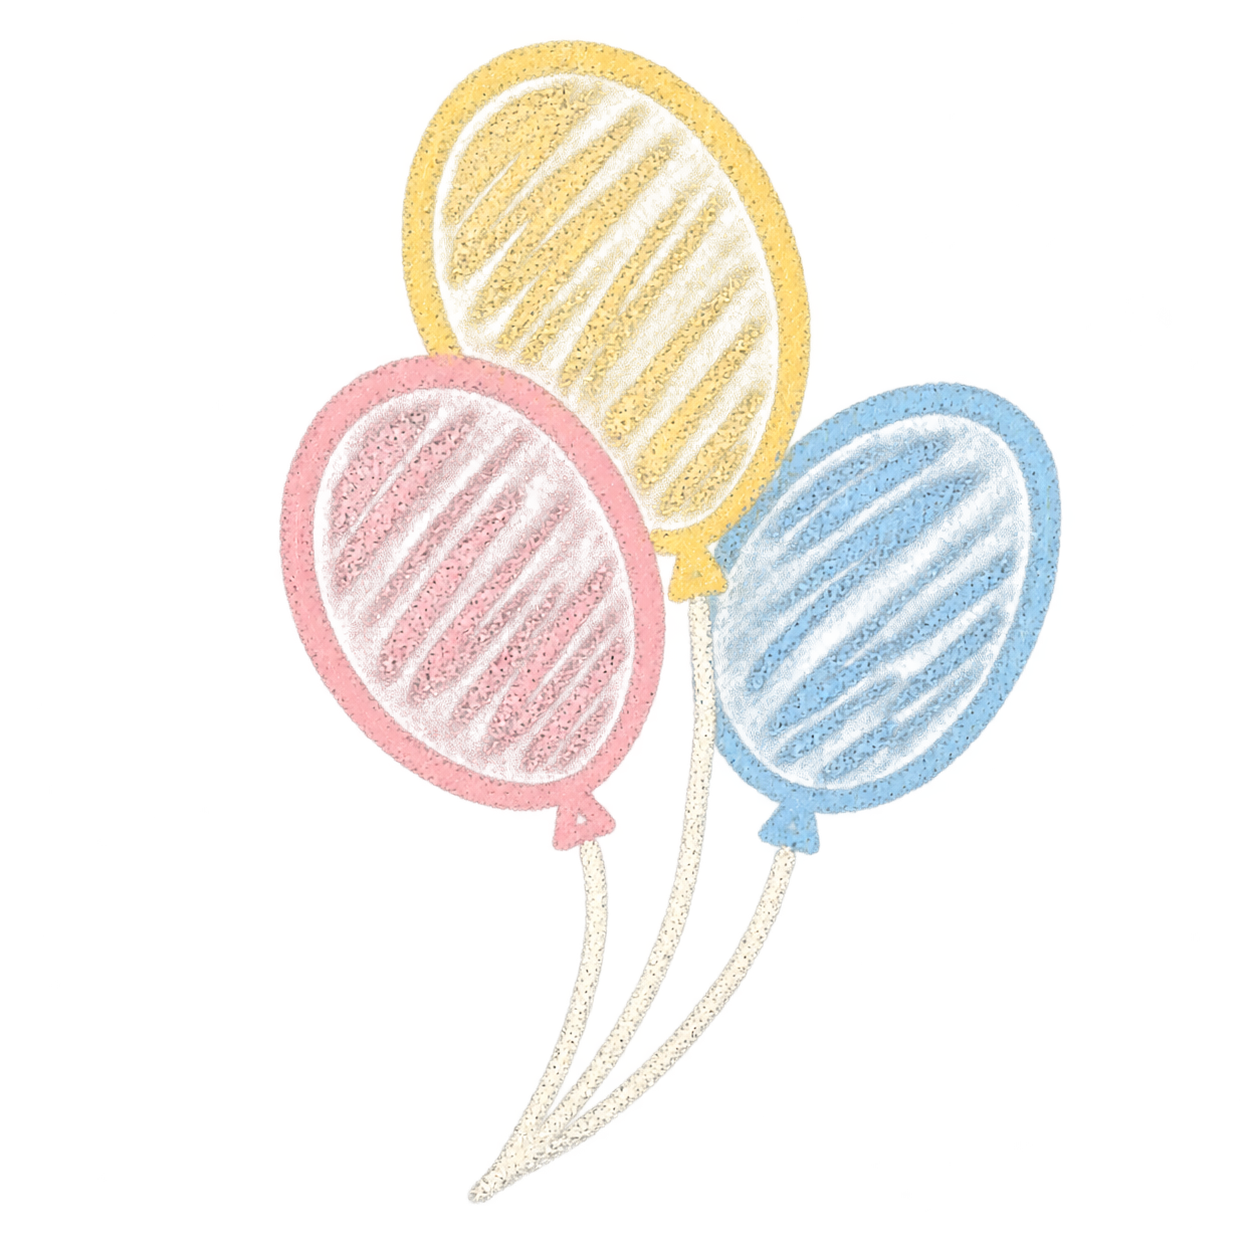
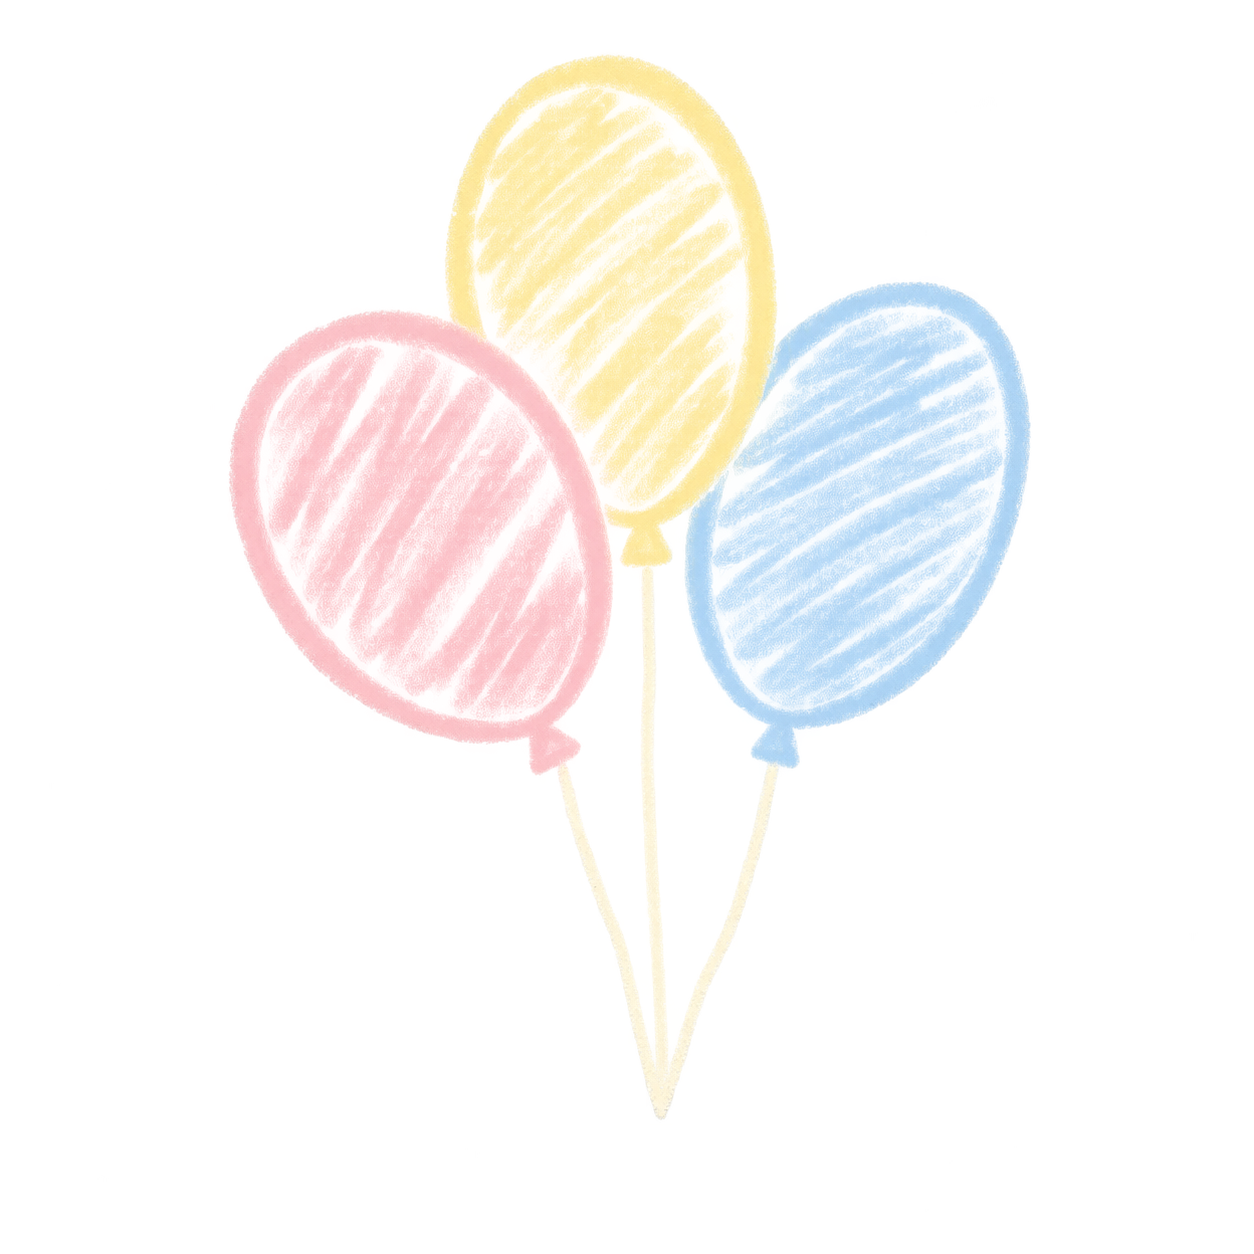
art: center balloon strings and add rubbed chalk cat patches

Changed region(s): [[0.1866, 0.0311, 0.8708, 0.9641]]

diff --git a/public/classroom/chalk/handdrawn/preview.html b/public/classroom/chalk/handdrawn/preview.html
@@ -38,8 +38,8 @@
     <section class="grid" aria-label="四款粉笔图案">
       <article><div class="board"><img class="large" src="heart.webp" alt="柔粉色粉笔爱心" width="512" height="512"><img class="small" src="heart.webp" alt="" width="52" height="52"></div><h2>爱心</h2><div class="files"><a href="heart.webp" download>网页图片</a><a href="heart.png" download>PNG 原图</a></div></article>
       <article><div class="board"><img class="large" src="stars.webp" alt="淡黄、暖白与浅蓝粉笔星星" width="512" height="512"><img class="small" src="stars.webp" alt="" width="52" height="52"></div><h2>星星</h2><div class="files"><a href="stars.webp" download>网页图片</a><a href="stars.png" download>PNG 原图</a></div></article>
-      <article><div class="board"><img class="large" src="balloons.webp" alt="柔粉、淡黄与浅蓝的三个粉笔气球" width="512" height="512"><img class="small" src="balloons.webp" alt="" width="52" height="52"></div><h2>三个气球</h2><div class="files"><a href="balloons.webp" download>网页图片</a><a href="balloons.png" download>PNG 原图</a></div></article>
-      <article><div class="board"><img class="large" src="cat.webp" alt="暖白粉笔画的可爱猫咪" width="512" height="512"><img class="small" src="cat.webp" alt="" width="52" height="52"></div><h2>猫咪</h2><div class="files"><a href="cat.webp" download>网页图片</a><a href="cat.png" download>PNG 原图</a></div></article>
+      <article><div class="board"><img class="large" src="balloons.webp?v=6" alt="柔粉、淡黄与浅蓝的三个粉笔气球，绳线在中下方汇合" width="512" height="512"><img class="small" src="balloons.webp?v=6" alt="" width="52" height="52"></div><h2>三个气球</h2><div class="files"><a href="balloons.webp" download>网页图片</a><a href="balloons.png" download>PNG 原图</a></div></article>
+      <article><div class="board"><img class="large" src="cat.webp?v=6" alt="暖白粉笔猫咪，带淡黄擦涂色块和柔粉耳内" width="512" height="512"><img class="small" src="cat.webp?v=6" alt="" width="52" height="52"></div><h2>猫咪</h2><div class="files"><a href="cat.webp" download>网页图片</a><a href="cat.png" download>PNG 原图</a></div></article>
     </section>
     <p class="note">下方小样固定为 52 px。背景颜色来自页面，图片里的空白与粉笔颗粒间隙均为透明区域。</p>
   </main>

diff --git a/public/classroom/chalk/handdrawn/PROMPTS.md b/public/classroom/chalk/handdrawn/PROMPTS.md
@@ -38,7 +38,7 @@ Subject: ONE very cute simple sitting kitten, front-facing, with a slightly tilt
 
 ## 第二版：气球绳线与猫咪手绘感
 
-2026-09-10，根据用户对气球绳线缺少粉笔感、猫咪过于精致的反馈更新。以下两段是第二版气球和猫咪采用的提示词。第二版气球的粉笔质感获用户认可，后续追加了自然倾角和遮挡关系要求；两款当前采用第五版，见文末记录。爱心和星星沿用第一版。使用内置 imagegen 分别重新生成透明素材，保留原调用地址；前两次图像编辑返回了带棋盘格的非透明文件，未采用。
+2026-09-10，根据用户对气球绳线缺少粉笔感、猫咪过于精致的反馈更新。以下两段是第二版气球和猫咪采用的提示词。第二版气球的粉笔质感获用户认可，后续追加了自然倾角和遮挡关系要求；两款当前采用第六版，见文末记录。爱心和星星沿用第一版。使用内置 imagegen 分别重新生成透明素材，保留原调用地址；前两次图像编辑返回了带棋盘格的非透明文件，未采用。
 
 ### balloons：第二版记录
 
@@ -101,7 +101,7 @@ Character: affectionate, naive, slightly lopsided and easily drawn by hand, abou
 
 这两款使用内置 imagegen 独立重新生成。猫咪保留第一张结果；气球第一张的绳线偏实，存入 `codex-generated` 作为研究版本，网页使用第二张结果。PNG 保留生成原件，WebP 仅等比缩小至 512 × 512 后无损编码；两款保留真实透明通道及粉笔半透明像素。旧版保存在 `codex-generated/chalk-handdrawn-2026-09-10/before-revision-5/`。
 
-### cat：当前版本完整提示词
+### cat：第五版完整提示词
 
 ```text
 Use case: stylized-concept. Create a single reusable transparent PNG web asset of a simple warm ivory CHALK CAT. Actual RGBA transparent background, empty spaces genuinely transparent, square canvas, full cat centered with 12 percent clear margin. Pure warm ivory #f5efdb chalk strokes only. No paper, board, photographic surface, checkerboard or background of any kind.
@@ -110,11 +110,34 @@ Character silhouette inspired by an informal marker cat drawing: very wide round
 Material: real dry chalk, about 9 to 17 px irregular stroke width at 1254px canvas, pressed harder in places and lifting off intermittently. Tiny grain holes THROUGH strokes, lightly scuffed edges, slight chalk skips, and small visible overlaps where the hand picked up the chalk. Do not inflate contours into thick smooth ivory tubes. No halo, diffuse chalk clouds, grime or noise texture outside the actual strokes. Head, body and ears unfilled and transparent. No smooth solid fill anywhere, including eyes. Very simple economical drawing, a bit wonky, minimal interior marks, warm and friendly. No text, shadow, sticker outline. Must retain actual transparency.
 ```
 
-### balloons：当前版本完整提示词
+### balloons：第五版完整提示词
 
 ```text
 Generate ONE simple hand-drawn chalk bunch of THREE balloons as an ACTUAL TRANSPARENT PNG, RGBA. No paper, background or checkerboard. Entire doodle on a square transparent canvas, 12% padding. Muted colors: pink #e6b1ba, yellow #efd28a, blue #a4c5de, ivory #f5efdb.
 Arrange three overlapping skewed oval balloons with distinct tilts: the pink in front and lower-left leaning left 25 degrees, yellow behind and higher leaning left 8 degrees, blue right and behind pink leaning right 25 degrees. Unequal heights and slight size differences, relaxed asymmetric grouping. Each small triangular knot points along the axis of its own balloon. From the knots three loose chalk strings bend to one meeting below-left of group center. No bows, no tangles.
 VISUAL LINE WEIGHT SPECIFICATION: Draw an OBVIOUS rough chalk OUTLINE around each balloon first, in its own color. It is a distinct 10–14px granular chalk line on a 1254px image. Every hanging ivory string uses THE SAME 10–14px stroke width, laid down with the same chalk stick and pressure. Equal visual line weights between colored balloon boundary and ivory string. Strings must not be thicker than the colored balloon outline. Avoid fine hairlines but avoid wide creamy ribbons. Each string is a single irregular chalk drag with gaps and rough deposit, NO parallel borders and NO smoothly filled tube. Keep width changing slightly and naturally within that range. Dry chalk grain must break through the WHOLE stroke, including its middle. Only a few slack bends.
 Inside each balloon use a FEW airy diagonal side-of-chalk rubbing strokes, less opaque than its outline, with transparent gaps, so the colored boundary remains clearly visible and its thickness can be compared to the strings. No uniform solid pastel fill, no smooth creamy fill, no dense long repetitive hatching. Short visible rubbed chalk marks and delicate transparent grain holes throughout. Cute simple classroom doodle in matte chalk. Rough freehand shapes, not perfect vector curves. Front-back depth only through overlaps, no light, gradients, highlights, shadows, 3D or gloss. No text or decoration, no white smudge clouds outside actual strokes. True transparent background.
+```
+
+## 第六版：气球绳线方向与猫咪局部粉笔涂色
+
+2026-09-11，根据用户要求，先目视比较六张网上气球照片，记录见 [REFERENCES.md](REFERENCES.md)，随后用内置 imagegen 分别生成修订素材。气球最初的图像编辑结果没有真实透明通道，未采用；按文字描述重新生成的透明结果用于网页。猫咪第一张的脚部过于复杂，采用第二张简化脚部、保留轮廓转折的结果。
+
+气球保留三只气球的不同倾角和遮挡，改为中下方汇合的绳线；猫咪在徒手轮廓内增加淡黄与柔粉擦涂。旧版文件保存在 `codex-generated/chalk-handdrawn-2026-09-10/before-revision-6/`。下列为最终采用的完整提示词。PNG 为生成原件，WebP 仅等比缩小至 512 × 512 后无损编码，二者均保留真实透明通道。
+
+### balloons：当前版本完整提示词
+
+```text
+Use case: stylized-concept. Create a new revised variant of a simple hand-drawn CHALK balloon bunch as a TRUE TRANSPARENT PNG with real alpha. This is an isolated reusable website motif on an empty transparent canvas, no background surface of any kind. Square composition with 10 percent transparent margin. Exactly THREE muted pastel balloons: dusty pink #e6b1ba lower-left in front, pastel yellow #efd28a higher center behind, pale blue #a4c5de on the right slightly behind pink. Softly lopsided elongated ovals with distinct natural tilts: left balloon leans left about 18 degrees, high yellow almost upright but slightly left 6 degrees, right balloon leans right about 18 degrees. Slight overlap gives front-back relationship. Knot of each follows its own balloon axis. Keep balloon bodies in upper 60 percent of drawing height; strings in remaining lower 40 percent. Preserve a quiet cute simple freehand classroom aesthetic, matte dry chalk, no vector precision.
+The THREE hanging strings are a natural calm helium bouquet informed by real Tangled Balloons and Party Splendour product photographs: each string travels from its own knot toward ONE shared point directly BENEATH THE CENTER of the group. Middle string approximately vertical. Left string gently slopes down-right. Right string gently slopes down-left. They have different lengths depending on knot heights. Overall a narrow open V group with a middle string. Only slight irregular hand-drawn deviation from these direct paths: ONE very subtle bend in each, no broad arc, no loops, no S curves, no sweep of all strings to the same side. No decorative curled ribbons. Their lower convergence is underneath the balloons, never off to left or right. Draw three distinct strokes which meet but do not make a heavy white lump. No bow and no weight.
+ALL balloon boundary strokes AND each ivory #f5efdb string are the SAME approximately 10-14px dry chalk width at 1254px canvas scale, with mild pressure variation. Chalk grain and transparent flecks must break through the ENTIRE strokes, including their centers. Strings must look like a single trace of a chalk stick, neither thin pencil nor smooth creamy ribbon. Balloon colored outlines remain obvious and same visual weight as strings. Fills are a few broad light diagonal back-and-forth side-of-chalk rubs, the same look as pink chalk heart and yellow chalk star doodles: visible overlaps, uneven deposition, open grain holes and transparent streaks, sparse coverage lighter than boundary. Do not add a grey base underneath colors. Entire art is just chalk pigment with alpha, not a photographed chalkboard. No digital solid fills, gradients, highlights, volume, shadows, text, extra decorations, dust clouds or background. Truly transparent PNG, do NOT paint checkerboard squares.
+```
+
+### cat：当前版本完整提示词
+
+```text
+Generate ONE simple chalk cat doodle as actual RGBA TRANSPARENT PNG. Empty background has real alpha, NOT painted checkerboard. Square canvas with FULL 12% clear margin on ALL four sides. No paper, blackboard or surface. Subject only.
+The silhouette MUST look like an ordinary person's quickly drawn chalk sketch, with visible changes of direction and stop/start joins. A very wide slightly squarish head flows into a short squat body, two tall unequal triangular ears, left higher than right, whole cat tilted a little clockwise. Outer cheeks are drawn with three imperfect long strokes each: one slanted flatter stretch, one mild angled corner, one curved return. BELLY BOTTOM IS A SLIGHTLY SLANTED FLAT STROKE with imperfect corners. Ears have kinked straight-ish sides and slightly blunt points. Draw naturally by hand, not an exact polygon; avoid continuous perfectly round outlines. Those few asymmetries and angled turns should be visible at small icon size. This is a naive simple doodle, not polished character illustration.
+Use warm IVORY #f5efdb dry chalk. Medium thin lines of varying pressure, roughly 10-16 pixels in a 1254px square, broken granular deposit through each stroke, occasional tiny interruptions where the chalk lifts; no smooth tubes, no uniform round line caps. NO white dust clouds or white underpainting. All interior empty spaces are TRANSPARENT. Eyes: two SMALL slightly unequal chubby tilted ovals, filled with grainy ivory chalk scribbling. Smile: one tiny handwritten lowercase w, NO nose. Two short uneven whisker dashes inside each cheek. Inner ears simple unequal triangles. Head and little body share one connected interior with no divider. The ONLY PAW MARK is ONE small handwritten lower-case w formed by TWO downward U-shaped loops joined in the middle. This one small w sits inside the body slightly ABOVE outer belly with clear gap below; no separate legs, no circles, NO curled feet, NO toes, no third loop. Small EMPTY loop tail behind lower-right body.
+Add restrained pastel coloring: ONE soft yellow #efd28a patch at upper-left forehead near left ear, ONE smaller yellow patch at lower-right body, a little pink #e6b1ba inside both inner-ear triangles. Face center, most cheeks, most body and tail remain empty transparent. Color patches have NO border. Draw their fill using a few broad short diagonal back-and-forth chalk rubbing strokes with visibly uneven coverage and see-through grain gaps, like a chalk-colored yellow star or pink heart. Clearly show separate chalk strokes and streaks, not smooth solid digital fill, not gradients or shading. Pigment texture gentle and readable. Cute, warm, quiet, simple, handmade. No extra details or surrounding decoration, no shadows or text. Do not smooth the wonky shape. Entire drawing including both ears and belly comfortably inside clear canvas margins. True transparent PNG.
 ```

diff --git a/public/classroom/chalk/handdrawn/REFERENCES.md b/public/classroom/chalk/handdrawn/REFERENCES.md
@@ -1,0 +1,19 @@
+# 第六版气球与涂色参考
+
+查看日期：2026-09-11。通过 [Google 图片检索](https://www.google.com.hk/search?q=three+helium+balloons+strings+bouquet&udm=2) 下载并目视比较了六张实物照片，重点观察结口、绳线汇合点与气球之间的关系。图片用于理解造型，网页素材仍由内置 imagegen 生成，外部照片不包含在素材包中。
+
+| 来源与参考 | 观察及采用方式 |
+| --- | --- |
+| [Tangled Balloons：11" Helium Balloons / Trio](https://tangledballoons.com/products/11-helium-balloon-trio) | 三只气球错开高度，连接绳主要朝组下方汇合。采用不同绳长和向下的主走向。 |
+| [Party Splendour：Inflated 3 Balloon Bouquet](https://partysplendour.com.au/product/inflated-3-balloon-bouquet/) | 左右气球的主绳各自向下方系点靠近，额外的丝带形成卷曲。采用主绳的轻微内倾，省略装饰卷曲。 |
+| The Party Superstore：Bunch Of 3 Helium Balloons Bouquet，见检索结果中的红、黄、紫气球照片 | 气球之间有高低和遮挡，绳线整体形成窄幅汇合。用于检查三只气球的组合关系。 |
+| Something Party：3 Balloon Bouquet，见检索结果中的金色、蓝色气球照片 | 三只气球上下交错，下方绳线接近竖直。用于限制横向弯曲幅度。 |
+| [Misty Daydream：Tri Colors Chrome Layer Bouquet](https://mistydaydream.com/product/helium-inflated-balloons-tri-colors-chrome-layer-bouquet/) | 照片是多层气球组合，用于辅助观察绳线汇合后的下垂方向，不采用其数量与排列。 |
+| [NOW ITS A PARTY：3 Balloon Helium Bouquet](https://www.shopnowitsaparty.com/products/3-balloon-helium-bouquet) | 查看的是含 Tassel + Balloon Weight 字样的局部图，绳线朝配重方向汇合。仅辅助观察连接方向。 |
+
+最终气球采用三根独立的暖白粉笔线，中间接近竖直，两侧向组中心下方轻微倾斜；线条保留徒手偏差，宽度接近气球边缘。气球的不同倾角与前后关系继续通过形状和遮挡表达。
+
+猫咪的涂色参考项目现有 [爱心](heart.png) 与 [星星](stars.png)：以几笔斜向往返擦涂构成色块，留下不均匀的笔画接缝与透明颗粒；额头和身体一侧使用淡黄，耳内少量柔粉，脸部中央与大部分身体保持透明。猫咪继续沿用用户参考画中的不等高耳朵与小身体造型，轮廓保留徒手转折。
+
+检索导出的八张图片中实际目视比较了以上六张。导出清单与图片保存在项目 `codex-generated/chalk-handdrawn-2026-09-10/references-v6/`，原图的来源地址可在导出清单中核对。此处商品链接来自图片预览显示的来源地址，未把商品描述作为画法依据。
+

diff --git a/public/classroom/chalk/handdrawn/README.md b/public/classroom/chalk/handdrawn/README.md
@@ -2,7 +2,7 @@
 
 这一套用于当前教室的灰绿色黑板，配色沿用暖白、淡黄、柔粉和浅蓝。四款素材各自独立，背景透明，粉笔线条和涂色中的颗粒空隙可以透出网页背景。
 
-2026-09-11 第五版更新：猫咪在保留参考图基本造型的基础上，增加耳朵和脸颊处的轻微折角，以不等长的笔画和局部接笔表现徒手轮廓，身体下沿减少连续圆弧。气球继续使用自然倾角和前后遮挡，绳线调整为接近气球边缘的笔画宽度，轮廓与涂色中的粉笔颗粒也更明显。两款的 PNG 和 WebP 已一同更新，文件地址沿用原路径。
+2026-09-11 第六版更新：参考网上多组气球实物照片，将三根绳线改为在气球组中下方汇合，中间接近竖直、两侧轻微向内倾斜，保留各气球的不同倾角与前后遮挡；绳线继续使用与气球边缘接近的粉笔笔画粗细。猫咪保留有转折的徒手轮廓，在额头和身体一侧加入淡黄擦涂，耳内加入少量柔粉，涂色中的颗粒与留白延续爱心、星星的处理方式。两款 PNG 和 WebP 已一同更新，文件地址沿用原路径。网上参考与采用方式见 [REFERENCES.md](REFERENCES.md)。
 
 | 图案 | 标识 | 网页文件 | 原始文件 |
 | --- | --- | --- | --- |
